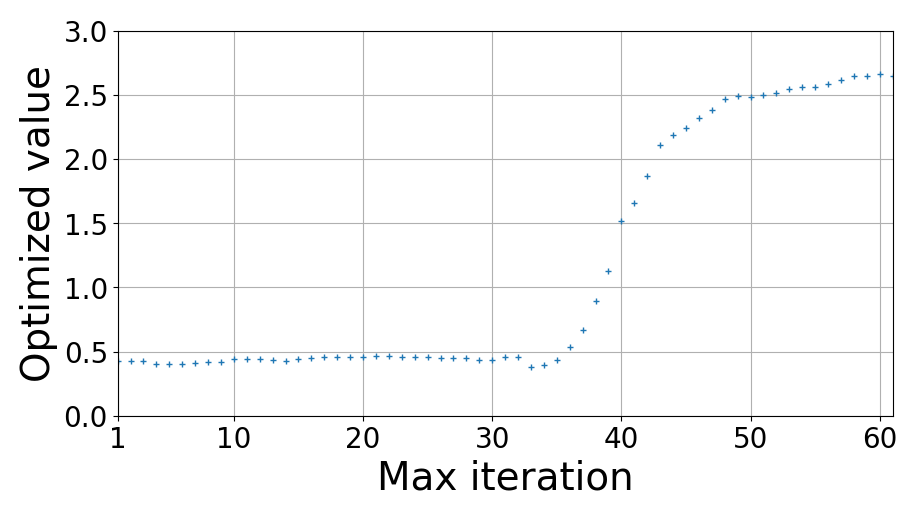
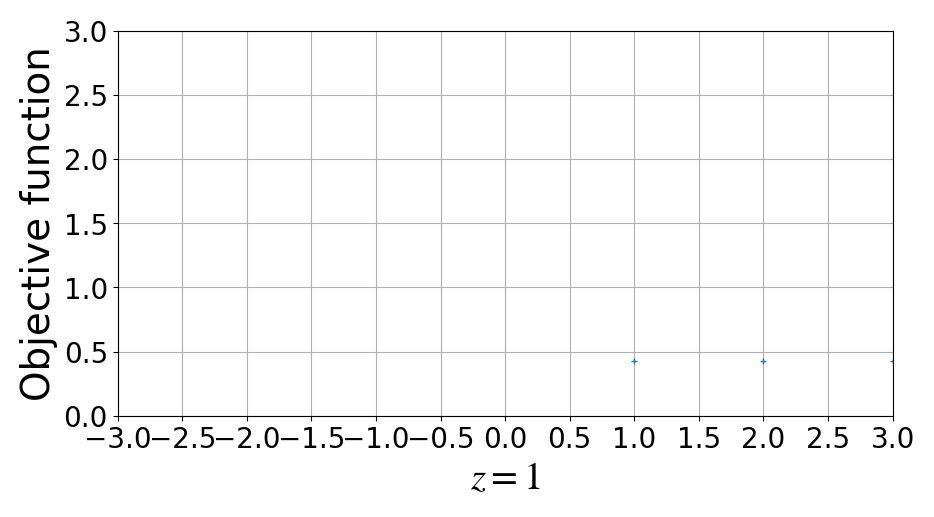
k

diff --git a/01_results/calc_entire_domain/plotter.py b/01_results/calc_entire_domain/plotter.py
@@ -44,8 +44,8 @@ obj_filename = filename
 inverse_jsp = True
 header = None
 index_col = None
-xlabel = "Max iteration"
-ylabel = "Optimized value"
+xlabel = "$z=1$"
+ylabel = "Objective function"
 
 
 # > Check the existence of the file:
@@ -120,11 +120,11 @@ ndarray_for_yticks = np.arange(
 # <
 
 # > x axis
-step_xticks = 10
-ndarray_for_xticks = np.arange(0, len(x)+1, step=step_xticks)[1:]
-ndarray_for_xticks = np.insert(ndarray_for_xticks, 0, 1)  # 0番目に1を挿入
-# ndarray_for_xticks = np.arange(5, 241, step_xticks)
-x_lim = [1, 61]
+step_xticks = 0.5
+# ndarray_for_xticks = np.arange(0, len(x)+1, step=step_xticks)[1:]
+# ndarray_for_xticks = np.insert(ndarray_for_xticks, 0, 1)  # 0番目に1を挿入
+ndarray_for_xticks = np.arange(-3, 3 + step_xticks, step_xticks)
+x_lim = [-3, 3]
 # <
 
 

diff --git a/21_optimization_bayes/optimization.py b/21_optimization_bayes/optimization.py
@@ -218,7 +218,7 @@ def opt_bayesian(dimension):
         )
     x0 = [0 for v in range(args.latent_dim)]
     try:
-        myBopt.run_optimization(max_iter=30)
+        myBopt.run_optimization(max_iter=200)
         x0[0] = myBopt.x_opt[0]
         of.save_log(x0)
     except:

diff --git a/21_optimization_bayes/handler.py b/21_optimization_bayes/handler.py
@@ -51,7 +51,7 @@ with open(os.path.join(dirname, filename), "w") as f:
         dx = "1.5"
         xobs_x = -0.25
         log_switch = "False"
-        test_bool = True
+        test_bool = False
         print(
                 f"""\
 --dir_main {dir_main} \
